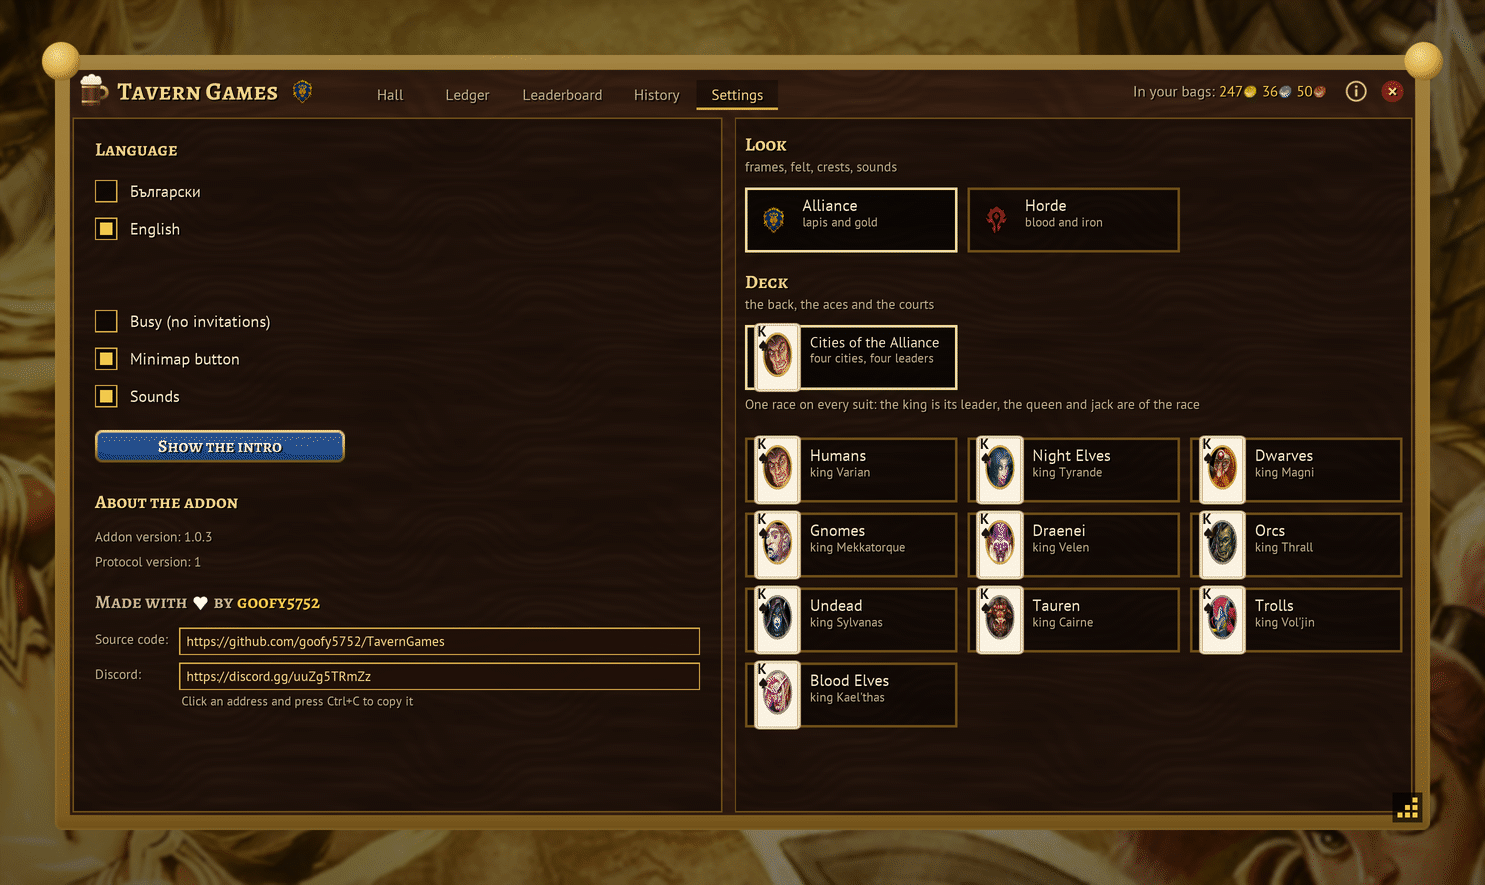
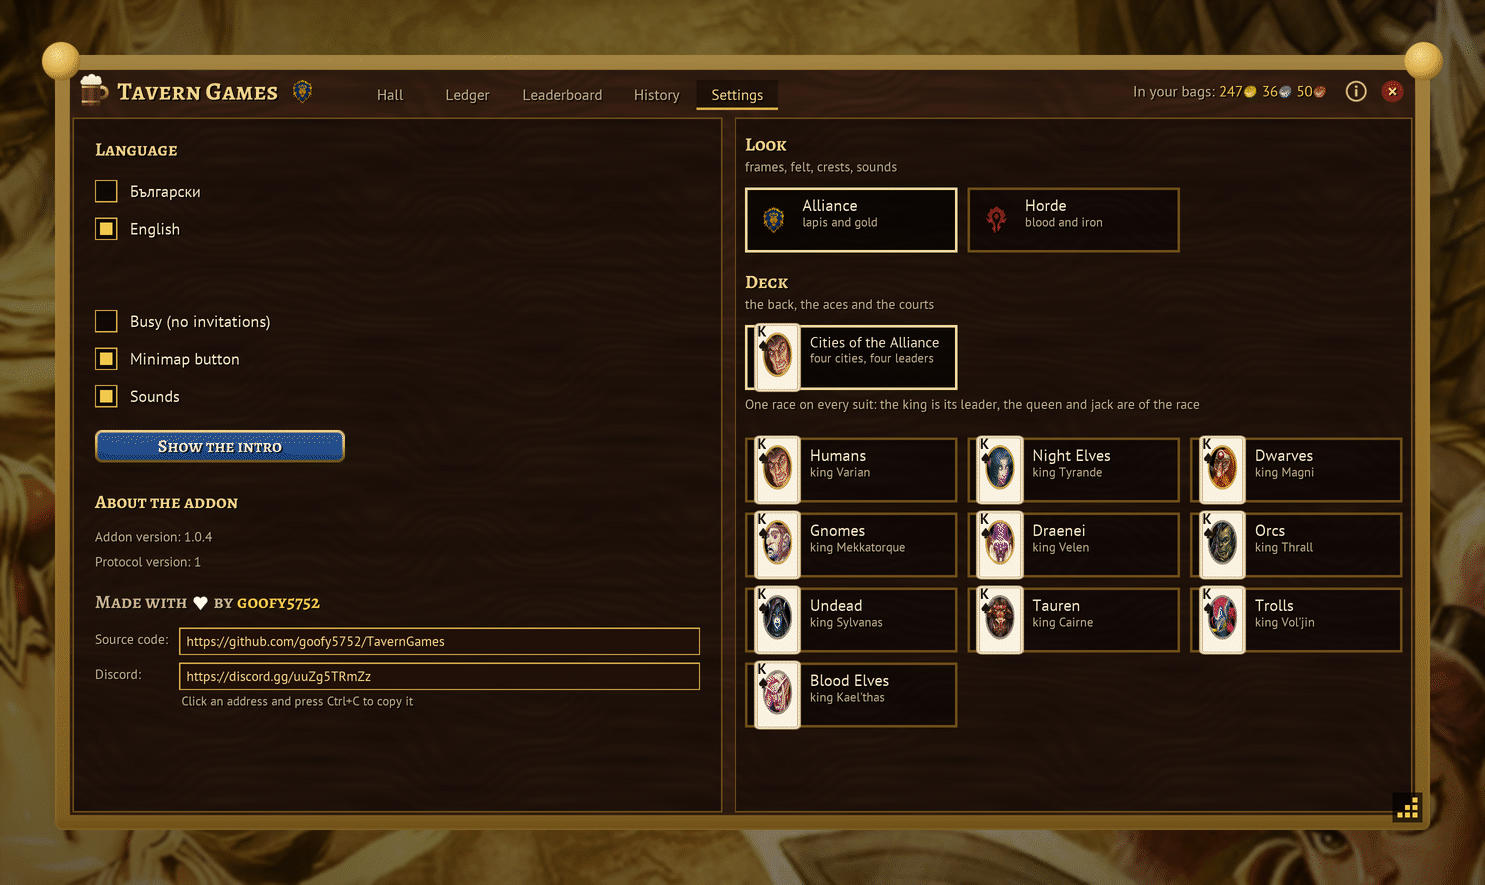
fix(stakes): open the guild ledger once the guild name is known; release 1.0.4 (#22)
Found in game: at a staked chess table every chair said "The table's
stake is a different one", and `/tavern ledger` said "The ledger is not
loaded yet".

**Cause:** right after login `GetGuildInfo("player")` can answer nil.
`Adapter.createClient` then gave the client no `env.guild`, the client
started without a ledger, and a client without a ledger sits at no
staked table. The hall reported that as the wrong stake, and it stayed
so until a `/reload`.

**Fix**
- `core/Client.lua`: the ledger's construction is `Client:openLedger`;
`Client:joinGuild(key)` opens it later, started if the client runs, and
emits `ledger` so the windows refresh. Once only.
- `wow/Adapter.lua`: `Adapter.guildKey()` (same key as before: name,
"-", realm, an empty realm too, so existing saved ledgers are kept) and
`Adapter.joinGuild()` on `PLAYER_GUILD_UPDATE` and
`GUILD_ROSTER_UPDATE`.
- UI: a staked chair, a staked invitation and a staked new table first
try to open the ledger; without one they say `refused.ledger` ("Your
guild's ledger has not loaded yet ...") instead of the wrong stake.

Tests: 2536 passed, 0 failed (new `tests/core/late_guild_test.lua`,
`stake_test` M2 updated plus two UI cases). Layout lint: 0 open.

🤖 Generated with [Claude Code](https://claude.com/claude-code)

---------

diff --git a/README.md b/README.md
@@ -25,7 +25,7 @@
 
 Every table is either **just for fun** or **staked in gold and silver**. The addon never moves gold by itself. It keeps a **guild-wide debt ledger**, fills in the amount for a **trade** or a **mail**, and you press the button. The addon runs on GUILD and WHISPER addon messages only, so it needs no server, website or external service.
 
-> **Version 1.0.3** ([changelog](CHANGELOG.md)), the first public release with a few additions. All seven games, stakes, the ledger, the leaderboard and the history are built, tested in game on WoW Forever and covered by more than 2500 automated tests. Please [open an issue](../../issues) or tell us on [Discord](https://discord.gg/uuZg5TRmZz) if something misbehaves.
+> **Version 1.0.4** ([changelog](CHANGELOG.md)), the first public release with a few additions. All seven games, stakes, the ledger, the leaderboard and the history are built, tested in game on WoW Forever and covered by more than 2500 automated tests. Please [open an issue](../../issues) or tell us on [Discord](https://discord.gg/uuZg5TRmZz) if something misbehaves.
 
 ## Table of contents
 

diff --git a/CHANGELOG.md b/CHANGELOG.md
@@ -1,5 +1,9 @@
 # Changelog
 
+## 1.0.4 (2026-11-28)
+
+- **Stakes:** right after login the game sometimes doesn't know your guild's name yet. Tavern Games then started without the guild ledger, and every staked chair said "The table's stake is a different one". The ledger now opens as soon as the guild's name is known, with no `/reload`. If it still isn't loaded, the message says that instead.
+
 ## 1.0.3 (2026-11-26)
 
 - **Belot:** the table no longer has a hand history. Remembering what has been played is part of the game, so only „Last trick“ is left, as before. Santase, Hold'em and Chess keep their history.
